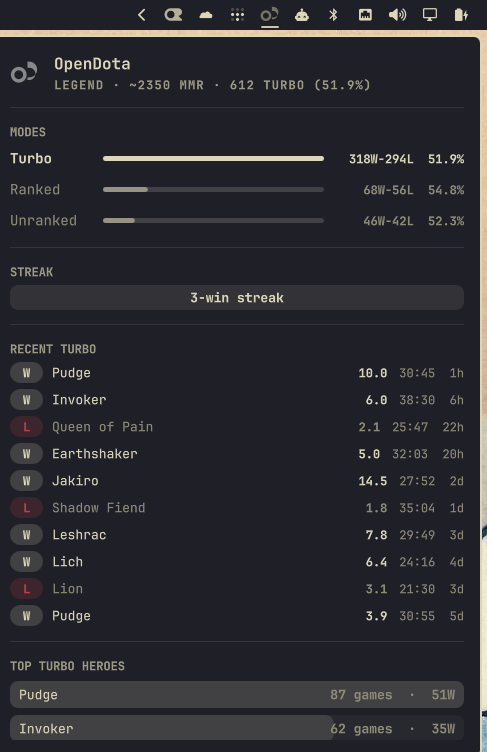
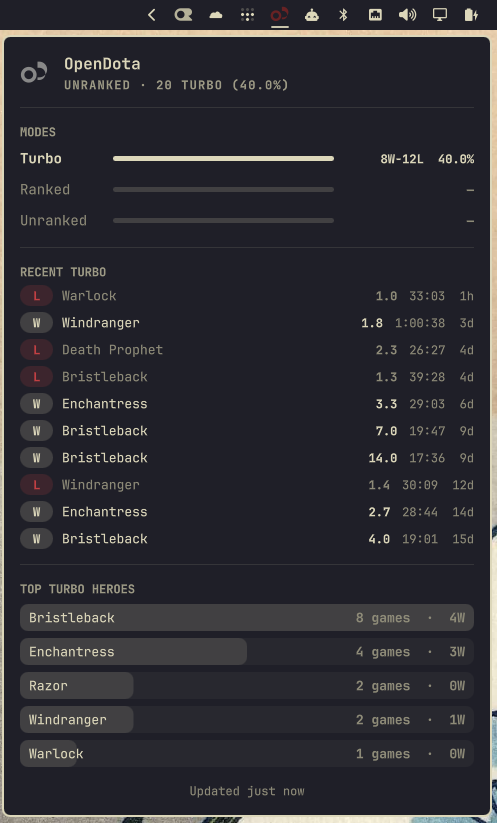
Update preview screenshot; embed it in README

diff --git a/README.md b/README.md
@@ -7,6 +7,8 @@ current streak, recent turbo matches, and top turbo heroes. Turbo is the
 headline queue because that's where most players spend their time, but the
 plugin surfaces ranked and unranked alongside for context.
 
+![OpenDota panel preview](preview.png)
+
 ## Installation
 
 The one-liner:
